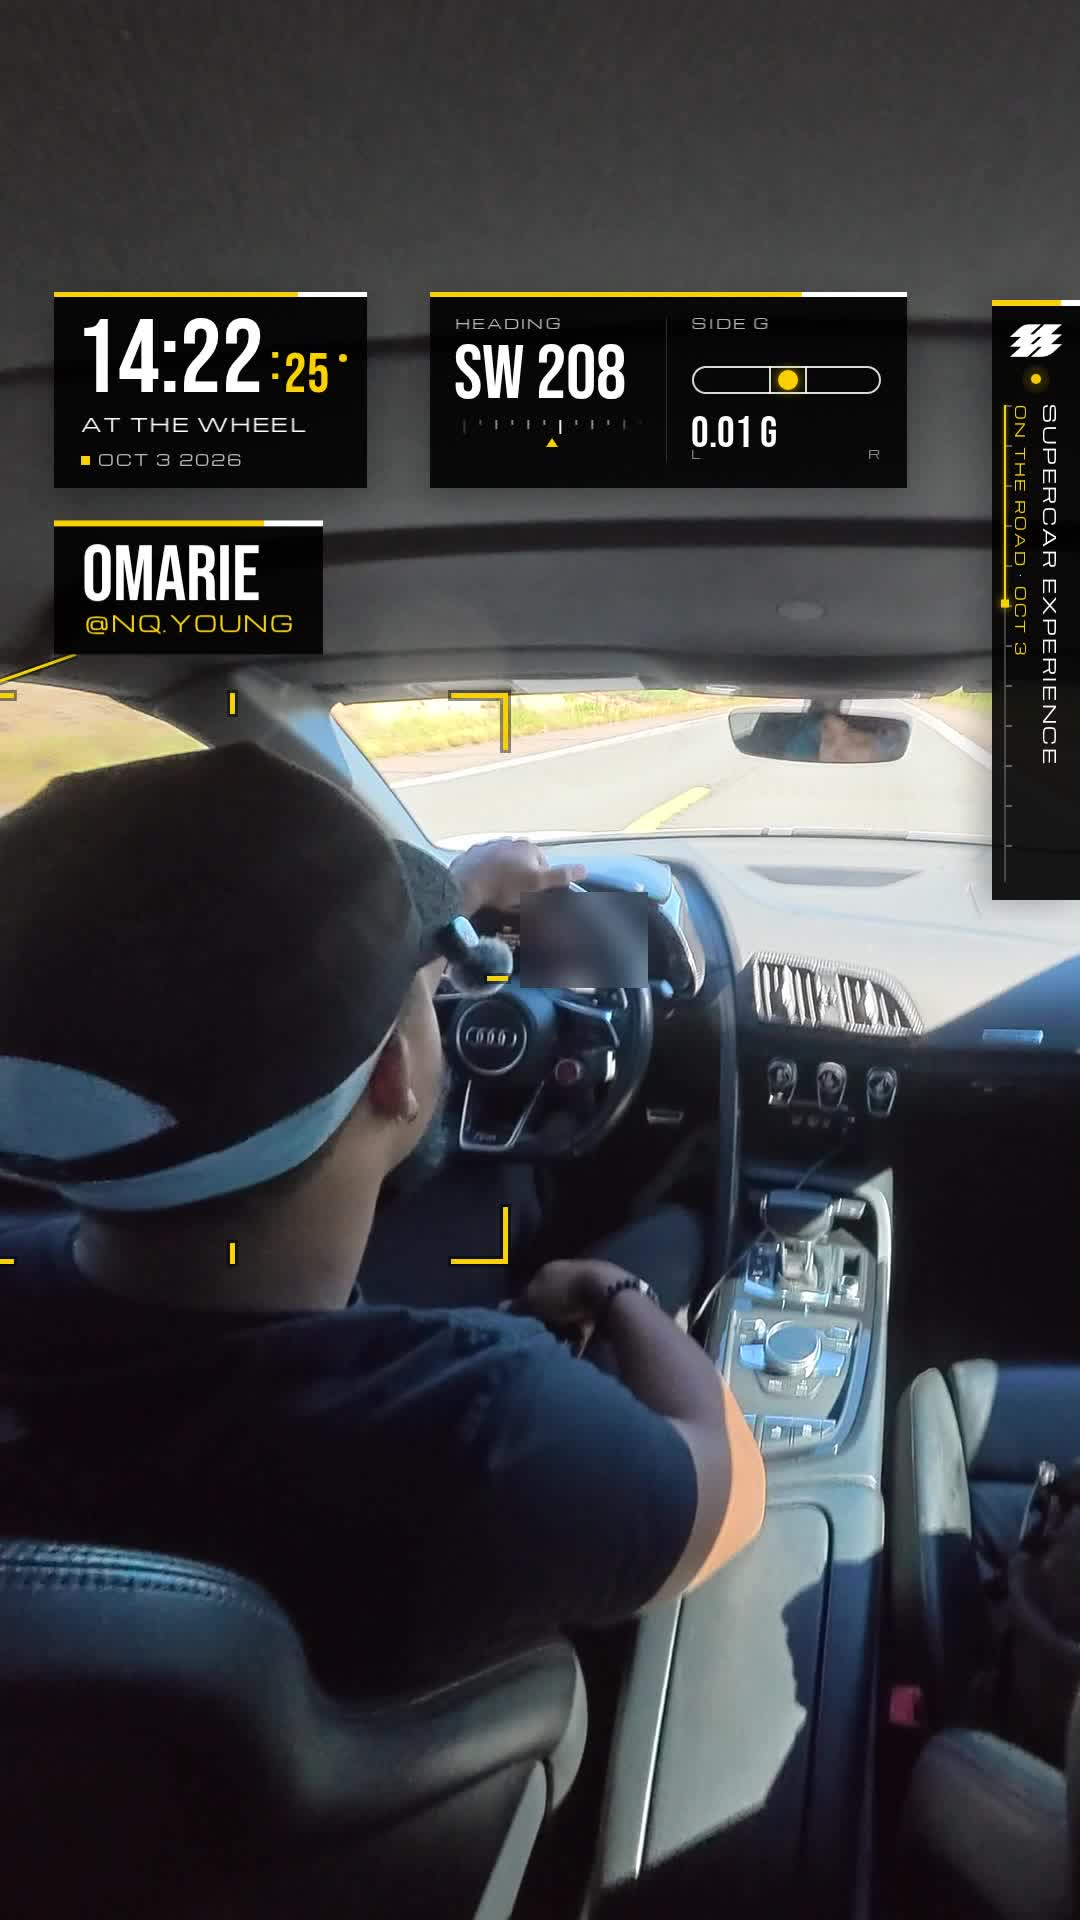
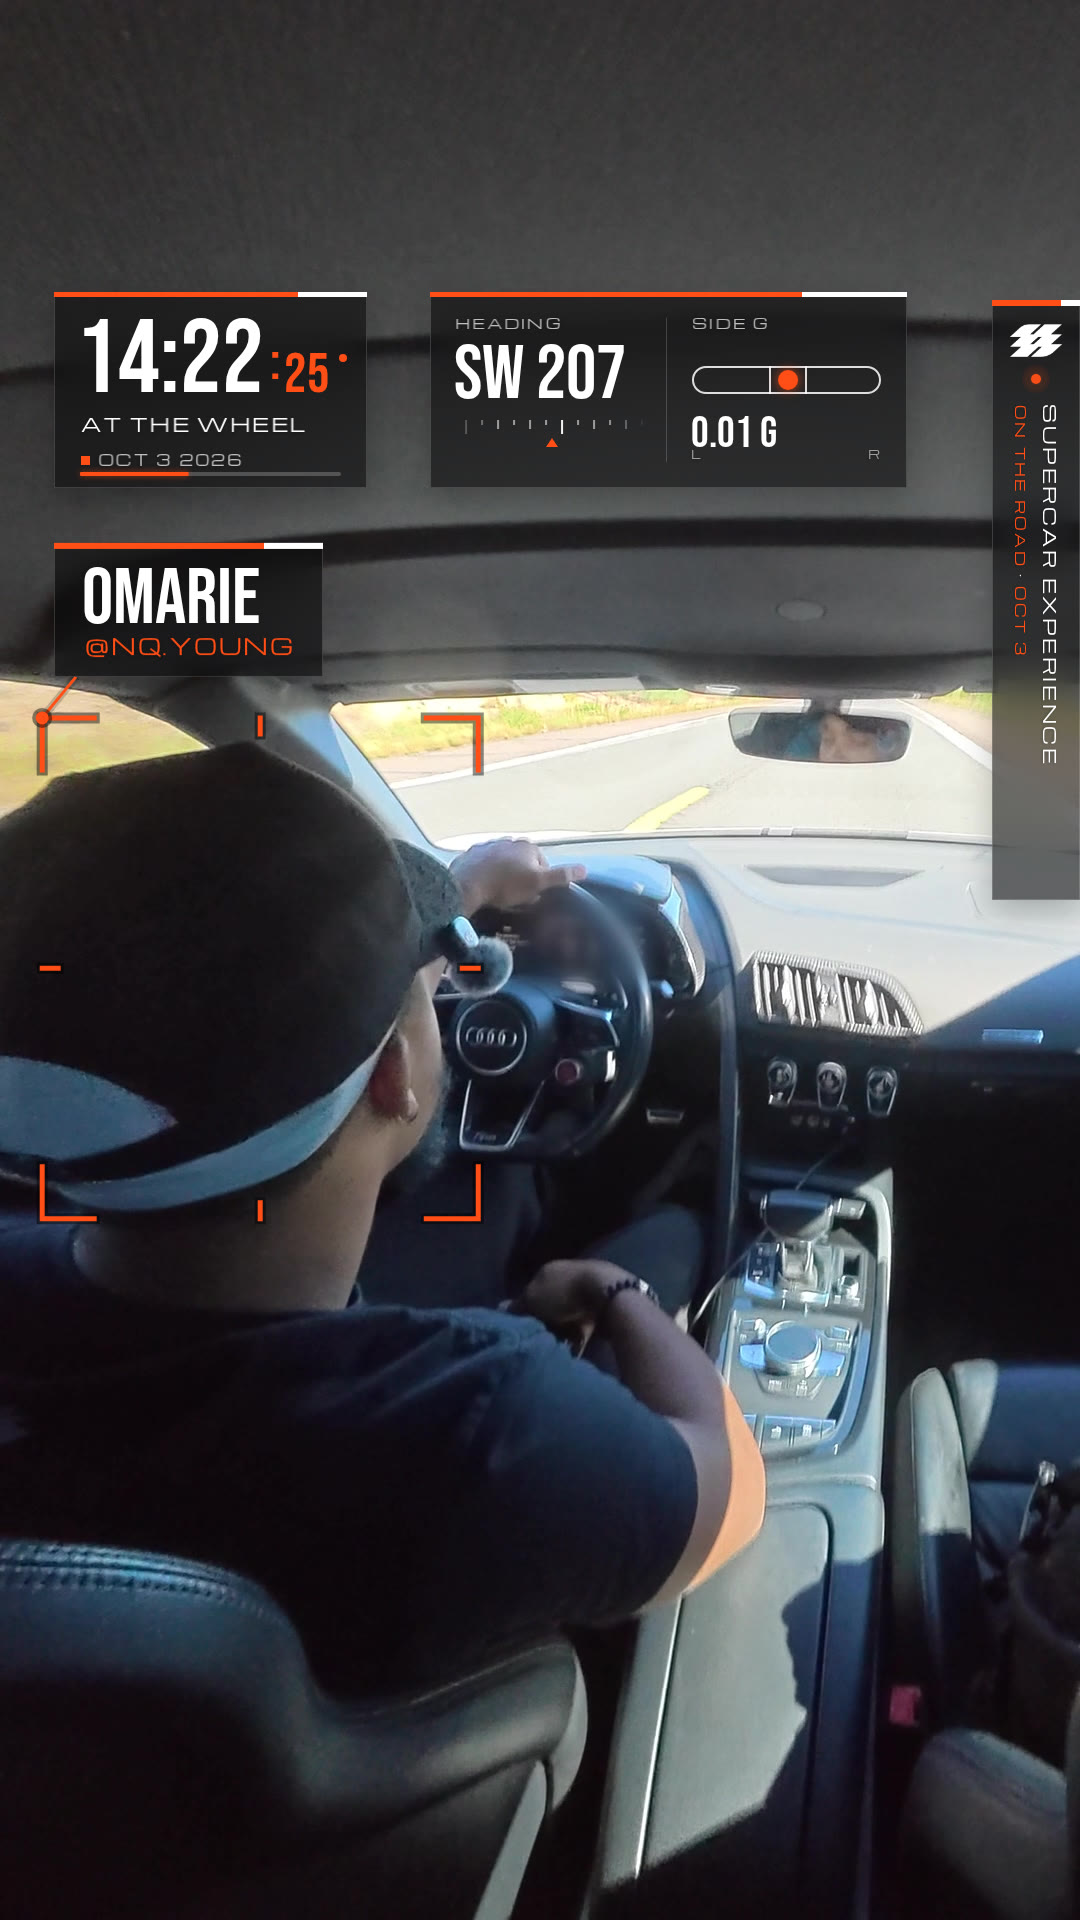
SE HUD-1: dark glass + SE orange with the clock scrubber, like HUD-2
Omarie, 5 Oct: "switch HUD-1 to dark glass too". Recipe, Oct 3 example scene, preview and README.

Claude-Session: https://claude.ai/code/session_013JoCuN8AVJiDRcQU8W2e21

diff --git a/supercar-experience/10-vlog-locked-on/hud-layouts/README.md b/supercar-experience/10-vlog-locked-on/hud-layouts/README.md
@@ -4,14 +4,14 @@ Two saved layout options for Supercar Experience driving clips, built on 5 Oct 2
 future clips ("instead of saving both clips how about saving both layouts, I'm creating layout options for future
 clips"). They are the vlog kit's own components (`../vlog-kit`, the Locked-On language: black plates with the 78/22
 gold/white stripe cap, gold #FBD101 as the only accent, Bebas + Michroma) plus one new plate, DRV. HUD-2 has since
-moved to dark glass + SE orange #FF4F16 (see Themes below); HUD-1 is still gold. **Status: saved as
+moved to dark glass + SE orange #FF4F16 (see Themes below), and HUD-1 followed the same day. **Status: saved as
 options, not approved for posting yet.**
 
 Say the code: "use HUD-1 on this clip".
 
 | Code | Camera | What is on screen | Preview |
 |---|---|---|---|
-| **HUD-1 · Cabin cam** | Mounted behind the driver's seat, looking forward past the driver | A2 SE banner tab (right edge), D1 camera clock + place (top left), DRV drive plate (top right), B1 lock-on on the driver with OMARIE · @NQ.YOUNG | `previews/hud-1-cabin.jpg` |
+| **HUD-1 · Cabin cam** (dark glass + SE orange, clock scrubber; 5 Oct) | Mounted behind the driver's seat, looking forward past the driver | A2 SE banner tab (right edge), D1 camera clock + place (top left), DRV drive plate (top right), B1 lock-on on the driver with OMARIE · @NQ.YOUNG | `previews/hud-1-cabin.jpg` |
 | **HUD-2 · Hood cam** (dark glass + SE orange, clock scrubber; picked 5 Oct) | Mounted on the hood or dash, looking down the road (also works on a roof mount looking back down the road; see the Oct 4 build) | A2 SE banner tab, E1 route plate stepping stop to stop (top left), DRV drive plate (top right), C3 lead lock on the car ahead (CONVOY / CAR AHEAD), D1 camera clock + place (bottom left, over the hood) | `previews/hud-2-hood.jpg` |
 
 **No road line in either.** Omarie, 5 Oct: "I don't like the road cursor for this point of view and it's not
@@ -21,8 +21,9 @@ supercar experience theme". The first look (Wayline, a gold line drawn on the ro
 
 Omarie, 5 Oct: "change the progress bar and give me some mockups on different themes ... like glass ... and
 supercarexperince colors weve used in the past im not digging the yellow". From four mockups he picked **dark glass +
-SE orange** (`glass-orange`) with the **clock scrubber** for HUD-2, so `layouts/hud-2-hood.json` now carries
-`"theme": "glass-orange"`, A2 `"rail": false` and a PRG `underline`. The other themes and progress styles stay options.
+SE orange** (`glass-orange`) with the **clock scrubber** for HUD-2, then "switch HUD-1 to dark glass too". Both
+`layouts/hud-*.json` now carry `"theme": "glass-orange"`, A2 `"rail": false` and a PRG `underline`. The other themes
+and progress styles stay options. Over a dark cabin (HUD-1) the glass reads as smoky black; over sky (HUD-2) it shows.
 
 - **Themes**, `themes/*.json`, chosen with `build_hud.py --theme themes/<name>.json`:
   - `glass`: frosted, white.
